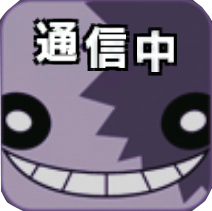
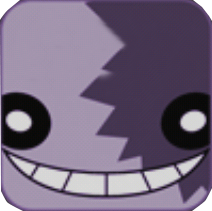
no message

Changed region(s): [[0.1415, 0.0853, 0.8491, 0.3697]]

diff --git a/Assets/Scripts/View/UI/SearchFriend/RequestFriendApply.cs b/Assets/Scripts/View/UI/SearchFriend/RequestFriendApply.cs
@@ -1,25 +1,23 @@
 using UnityEngine;
 using System.Collections;
 
-public class RequestFriendApply : ApplyMessage
-{
+public class RequestFriendApply : ApplyMessage{
 	
-	public RequestFriendApply(string uiName) : base(uiName)
-	{	
-	}
+	public RequestFriendApply(string uiName) : base(uiName){}
 
-	public override void Callback(object data)
-	{
+	public override void CreatUI(){
+		base.CreatUI();
+		CustomizeWindow();
+	}
+	public override void Callback(object data){
 		base.Callback(data);
 		
 		CallBackDispatcherArgs cbdArgs = data as CallBackDispatcherArgs;
 		
-		switch (cbdArgs.funcName)
-		{
+		switch (cbdArgs.funcName){
 			case "ClickSure": 
 				CallBackDispatcherHelper.DispatchCallBack(EnsureRequestApply, cbdArgs);
 				break;
-				
 			case "ClickCancel": 
 				CallBackDispatcherHelper.DispatchCallBack(CancelRequestApply, cbdArgs);
 				break;
@@ -28,15 +26,13 @@ public class RequestFriendApply : ApplyMessage
 		}
 	}
 
-	void CancelRequestApply(object args)
-	{
+	void CancelRequestApply(object args){
 		Debug.LogError("Receive view click, to cancel delete friend apply of player....");
 		CallBackDispatcherArgs cbdArgs = new CallBackDispatcherArgs("HidePanel", null);   
 		ExcuteCallback(cbdArgs);
 	}
 	
-	void EnsureRequestApply(object args)
-	{
+	void EnsureRequestApply(object args){
 		Debug.LogError("Receive view click, to ensure delete friend apply of player....");
 		MsgCenter.Instance.Invoke(CommandEnum.SubmitFriendApply, null);
 		CallBackDispatcherArgs cbdArgs = new CallBackDispatcherArgs("HidePanel", null); 
@@ -44,22 +40,19 @@ public class RequestFriendApply : ApplyMessage
 		
 	}
 	
-	void CustomizeWindow()
-	{
+	void CustomizeWindow(){
 		CustomizeTitle();
 		CustomizeNote();
 	}
 	
-	void CustomizeTitle()
-	{
+	void CustomizeTitle(){
 		string title = "Friend Apply";
 		CallBackDispatcherArgs cbdArgs = new CallBackDispatcherArgs("StylizeTitle", title);
 		ExcuteCallback(cbdArgs);
 	}
         
-	void CustomizeNote()
-	{
-		string note = "Are you sure to submit your apply";
+	void CustomizeNote(){
+		string note = "Are you sure to submit your apply?";
 		CallBackDispatcherArgs cbdArgs = new CallBackDispatcherArgs("StylizeNote", note);
 		ExcuteCallback(cbdArgs);
 	}

diff --git a/Assets/Scripts/Utility/TimeHelper.cs b/Assets/Scripts/Utility/TimeHelper.cs
@@ -30,19 +30,19 @@ public sealed class TimeHelper {
 		int minutes = (System.DateTime.Now - latestPlayTime).Minutes;
 		
 		if(days > 0){
-			text = string.Format("Latest Play: {0} days ago", days);
+			text = string.Format("{0} days ago", days);
 			return text;
 		}
 		else if(hours > 0){
-			text = string.Format("Latest Play: {0} hours ago", hours);
+			text = string.Format("{0} hours ago", hours);
 			return text;
 		}
 		else if(minutes >= 1){
-			text = string.Format("Latest Play: {0} minutes ago", minutes);      
+			text = string.Format("{0} minutes ago", minutes);      
 			return text;
 		}
 		else{
-			text = "Latest Play: less than 1 minutes";
+			text = "Less than 1 minutes";
 			return text;
 		}
 	}

diff --git a/Assets/Scripts/View/UI/FriendList/UserBriefInfoView.cs b/Assets/Scripts/View/UI/FriendList/UserBriefInfoView.cs
@@ -159,19 +159,18 @@ public class UserBriefInfoView : UIComponentUnity{
 		nameLabel.text = tuu.UnitInfo.Name;
 		raceLabel.text = tuu.UnitInfo.UnitRace.ToString();
 		avatarTex.mainTexture = tuu.UnitInfo.GetAsset(UnitAssetType.Avatar);
+		slvLabel.text = tuu.UnitInfo.ActiveSkill.ToString();
 	}
 
 	void RefreshLastLogin(object args){
 		lastLoginLabel.text = args as string;
 	}
 
-	void RefreshRank(object args)
-	{
+	void RefreshRank(object args){
 		rankLabel.text = "Rank : " + args as string;
 	}
 
-	void RefreshUserName(object args)
-	{
+	void RefreshUserName(object args){
 		nickNameLabel.text = args as string;
 	}
 

diff --git a/Assets/Scripts/View/UI/Utility/MaskView.cs b/Assets/Scripts/View/UI/Utility/MaskView.cs
@@ -38,7 +38,7 @@ public class MaskView : UIComponentUnity {
 		background = FindChild<UISprite>("Sprite_Mask");
 		connecting = FindChild<UISprite>("Sprite_Connect");
 		background.enabled = false;
-		connecting.enabled = false;
+		connecting.transform.parent.gameObject.SetActive(false);
 	}
 	void SetMaskActive(object args){
 		bool isActive = (bool)args;
@@ -47,7 +47,7 @@ public class MaskView : UIComponentUnity {
 
 	void SetConnectActive(object args){
 		bool isActive = (bool)args;
-		connecting.enabled = isActive;
+		connecting.transform.parent.gameObject.SetActive(isActive);
 	}
 
 }

diff --git a/Assets/Scripts/View/UI/Common/ConcreteDecortor.cs b/Assets/Scripts/View/UI/Common/ConcreteDecortor.cs
@@ -391,8 +391,7 @@ public class QuestSelectDecorator : DecoratorBase
 		base.HideScene();
 	}
 	
-	public override void DestoryScene()
-	{
+	public override void DestoryScene(){
 		base.DestoryScene();
 	}
 	
@@ -759,8 +758,7 @@ public class InformationDecorator : DecoratorBase
 }
 
 //--------------------------------SearchFriend------------------------------------------
-public class SearchFriendDecorator : DecoratorBase
-{
+public class SearchFriendDecorator : DecoratorBase{
 	private SceneInfoComponent sceneInfoBar;
 	public SearchFriendDecorator(SceneEnum sEnum) : base(sEnum){}
 	

diff --git a/Assets/Scripts/View/UI/FriendList/ApplyMessageView.cs b/Assets/Scripts/View/UI/FriendList/ApplyMessageView.cs
@@ -114,7 +114,11 @@ public class ApplyMessageView : UIComponentUnity{
 		TFriendInfo tfi = args as TFriendInfo;
 
 		avatarTexture.mainTexture = tfi.UserUnit.UnitInfo.GetAsset(UnitAssetType.Avatar);
-		nameLabel.text = tfi.NickName;
+		if(tfi.NickName == string.Empty)
+			nameLabel.text = "NoName";
+		else
+			nameLabel.text = tfi.NickName;
+
 		rankLabel.text = tfi.Rank.ToString();
 		timeLabel.text = TimeHelper.GetLatestPlayTime(tfi.LastPlayTime);
 		idLabel.text = tfi.UserId.ToString();
